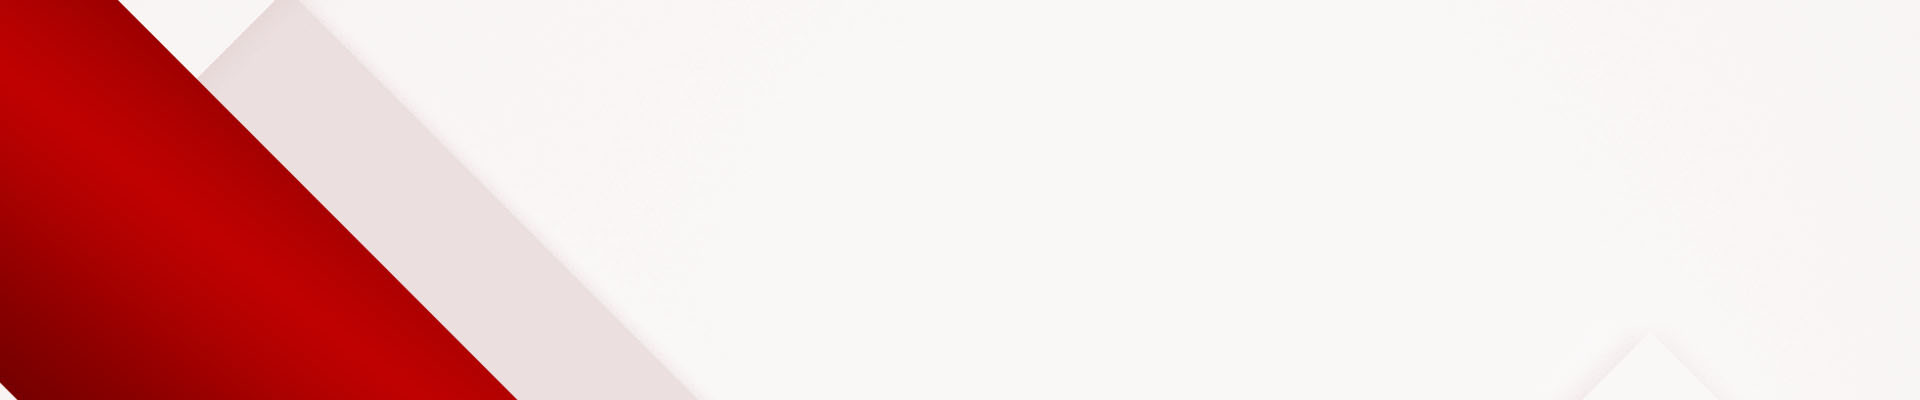
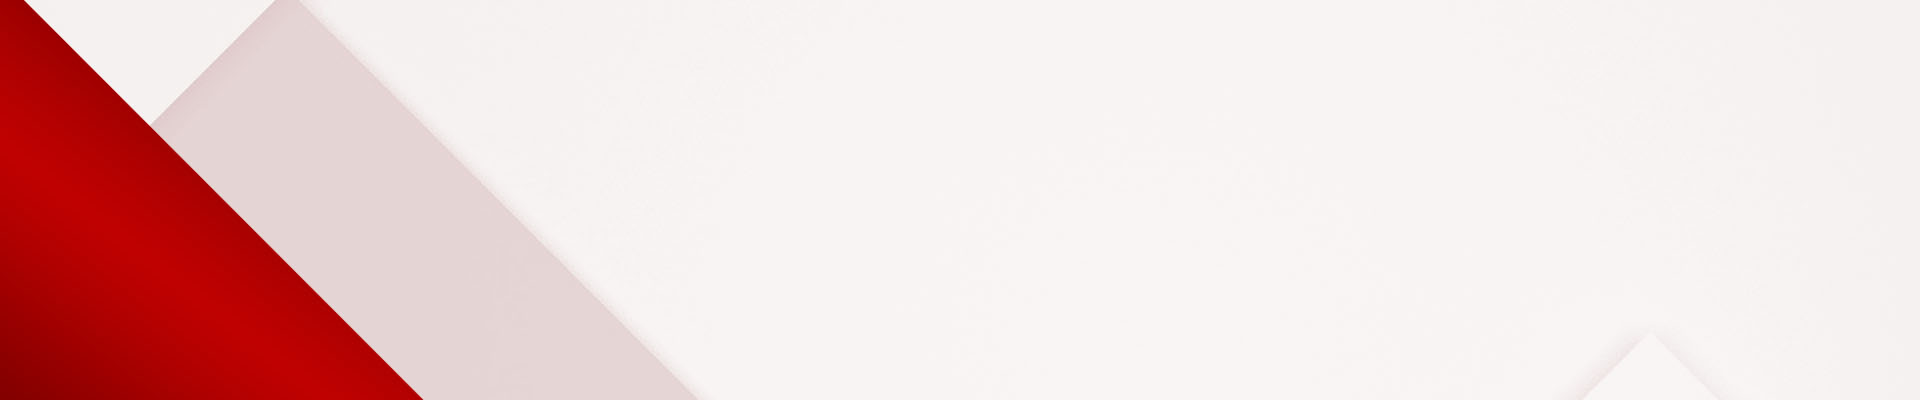
Created function to change bg in different screen sizes

Changed region(s): [[0.0, 0.0, 0.2812, 1.0], [0.0, 0.96, 0.0312, 1.0]]

diff --git a/JS/index.js b/JS/index.js
@@ -5,9 +5,30 @@ $(document).ready(function () {
     $('#privacidade').hover(function () {
         $('#privacidade .chip').toggleClass('red-text lighten-2');
     });
-    
-    $('#clientes').hover(function(){
-       $('#clientes .chip').toggleClass('red-text lighten-2'); 
+
+    $('#clientes').hover(function () {
+        $('#clientes .chip').toggleClass('red-text lighten-2');
     });
-    
+
+    if ($('#windowSize').css('padding') == '4px') {
+        //        console.log('entrou');
+        $('#intro').css('background-image', "url(../IMAGES/wallpapers/introTeste.jpg)");
+    }
+    if ($('#windowSize').css('padding') == '6px') {
+        $('#intro').css('background-image', "url(../IMAGES/wallpapers/introTeste.jpg)");
+    }
+
+    $(window).resize(function () {
+        if ($('#windowSize').css('padding') == '4px') {
+            //            console.log('entrou');
+            $('#intro').css('background-image', "url(../IMAGES/wallpapers/introTeste.jpg)");
+        }
+        if ($('#windowSize').css('padding') == '6px') {
+            $('#intro').css('background-image', "url(../IMAGES/wallpapers/introTeste.jpg)");
+        }
+        if($('#windowSize').css('padding') == '8px' || $('#windowSize').css('padding') == '10px'){
+            $('#intro').css('background-image', "url(../IMAGES/wallpapers/intro.jpg)");
+        }
+    });
+
 });
